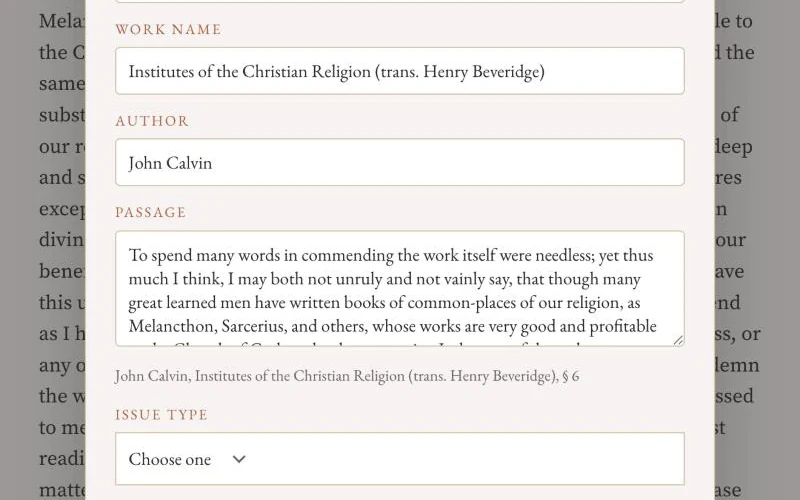
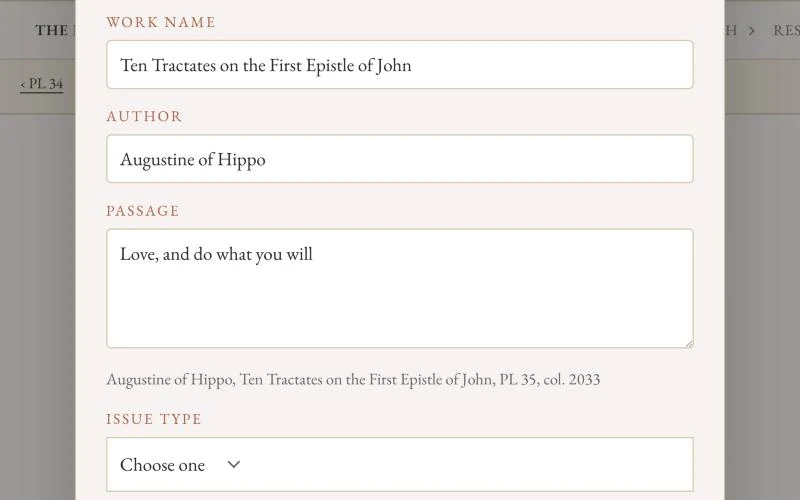
How to use: short intros instead of the guide index, creed/confession/catechism heading restored, Report shown on a machine-translated text
Each guide (Laity, Pastors, Academics) now opens with a one-sentence intro. The in-page index list and its two-column top grid are removed. The home-group heading is "Lead a home group through a creed, confession, or catechism" again (#225's wording, lost in #227); its Try it goes to the Creeds, Confessions, & Catechisms collection. The Report screenshot and Try it now use Augustine's Ten Tractates on 1 John (machine translated) instead of Calvin's Institutes in Beveridge's human translation, with alt text naming what is shown.
Agents: Frontend PASS, Design PASS, UX PASS (after Try it link fix), Mobile PASS, SEO PATCH (alt text, applied), Security PASS, Deslop PATCH (repeated sentence, comma splice, overclaim, applied). Serial comma in the restored heading kept as Ian approved it.

Changelog: The How to use page opens each guide with a short intro, names creeds, confessions, and catechisms in the home group guide again, and shows Report on a machine-translated text.

diff --git a/assets/css/faith-how-to-use.css b/assets/css/faith-how-to-use.css
@@ -34,13 +34,9 @@ html:not(.ht-js) main.tfr-howto .ht-panel + .ht-panel { margin-top: 2rem; border
 html.ht-js main.tfr-howto .ht-eyebrow { display: none; }
 main.tfr-howto .ht-eyebrow { margin: 0 0 .4rem; font: 600 .75rem/1.4 var(--font-body); letter-spacing: .14em; text-transform: uppercase; color: var(--ht-accent); }
 
-/* ── The top of a guide: one sentence on the left, the index on the right ── */
-main.tfr-howto .ht-top { display: grid; grid-template-columns: minmax(0, 4fr) minmax(0, 8fr); gap: .5rem 2rem; align-items: start; margin: 0 0 1rem; }
-main.tfr-howto .ht-intro { margin: .4rem 0 0; font: 1rem/1.5 var(--font-body); text-wrap: pretty; }
-main.tfr-howto .ht-index { list-style: none; margin: 0; padding: 0; columns: 2; column-gap: 2rem; font: .9375rem/1.3 var(--font-body); }
-main.tfr-howto .ht-index li { break-inside: avoid; }
-main.tfr-howto .ht-index a { display: inline-flex; align-items: center; min-height: 2rem; color: var(--fg); }
-main.tfr-howto .ht-index a:hover { color: var(--ht-accent); }
+/* ── The top of a guide: a short intro, no index (Ian, 10-23) ── */
+main.tfr-howto .ht-top { margin: 0 0 1rem; }
+main.tfr-howto .ht-intro { margin: .4rem 0 0; max-width: 60ch; font: 1rem/1.5 var(--font-body); text-wrap: pretty; }
 
 /* ── The features: two columns on a desktop, one stack per block (label, heading, words, screenshot, button) ── */
 main.tfr-howto .ht-grid { display: grid; grid-template-columns: repeat(2, minmax(0, 1fr)); gap: 1.75rem 2rem; align-items: stretch; }
@@ -60,17 +56,14 @@ main.tfr-howto .ht-btn {
 main.tfr-howto a.ht-btn:hover, main.tfr-howto a.ht-btn:focus-visible { background: var(--ht-accent); color: var(--ht-on); }
 main.tfr-howto .ht-sr { position: absolute; width: 1px; height: 1px; margin: -1px; padding: 0; overflow: hidden; clip: rect(0 0 0 0); white-space: nowrap; border: 0; }
 main.tfr-howto .ht-foot { margin: 1rem 0 0; padding-top: 1.25rem; border-top: 1px solid var(--border); }
-@media (pointer: coarse) { main.tfr-howto :is(.ht-btn, .ht-index a) { min-height: 2.75rem; } }
+@media (pointer: coarse) { main.tfr-howto .ht-btn { min-height: 2.75rem; } }
 
 /* ── Below 900px: one column, the same stack ── */
 @media (max-width: 899px) {
-  main.tfr-howto .ht-top { grid-template-columns: minmax(0, 1fr); }
   main.tfr-howto .ht-grid { grid-template-columns: minmax(0, 1fr); gap: 1.5rem; }
 }
 @media (max-width: 640px) {
   main.tfr-howto .wrap { padding: 0 20px 2.5rem; }
   main.tfr-howto .ht-tabs { gap: 0 1.4rem; }
   main.tfr-howto .ht-btn { width: 100%; }
-  main.tfr-howto .ht-index { columns: 1; }
-  main.tfr-howto .ht-index a { min-height: 2.75rem; }
 }
